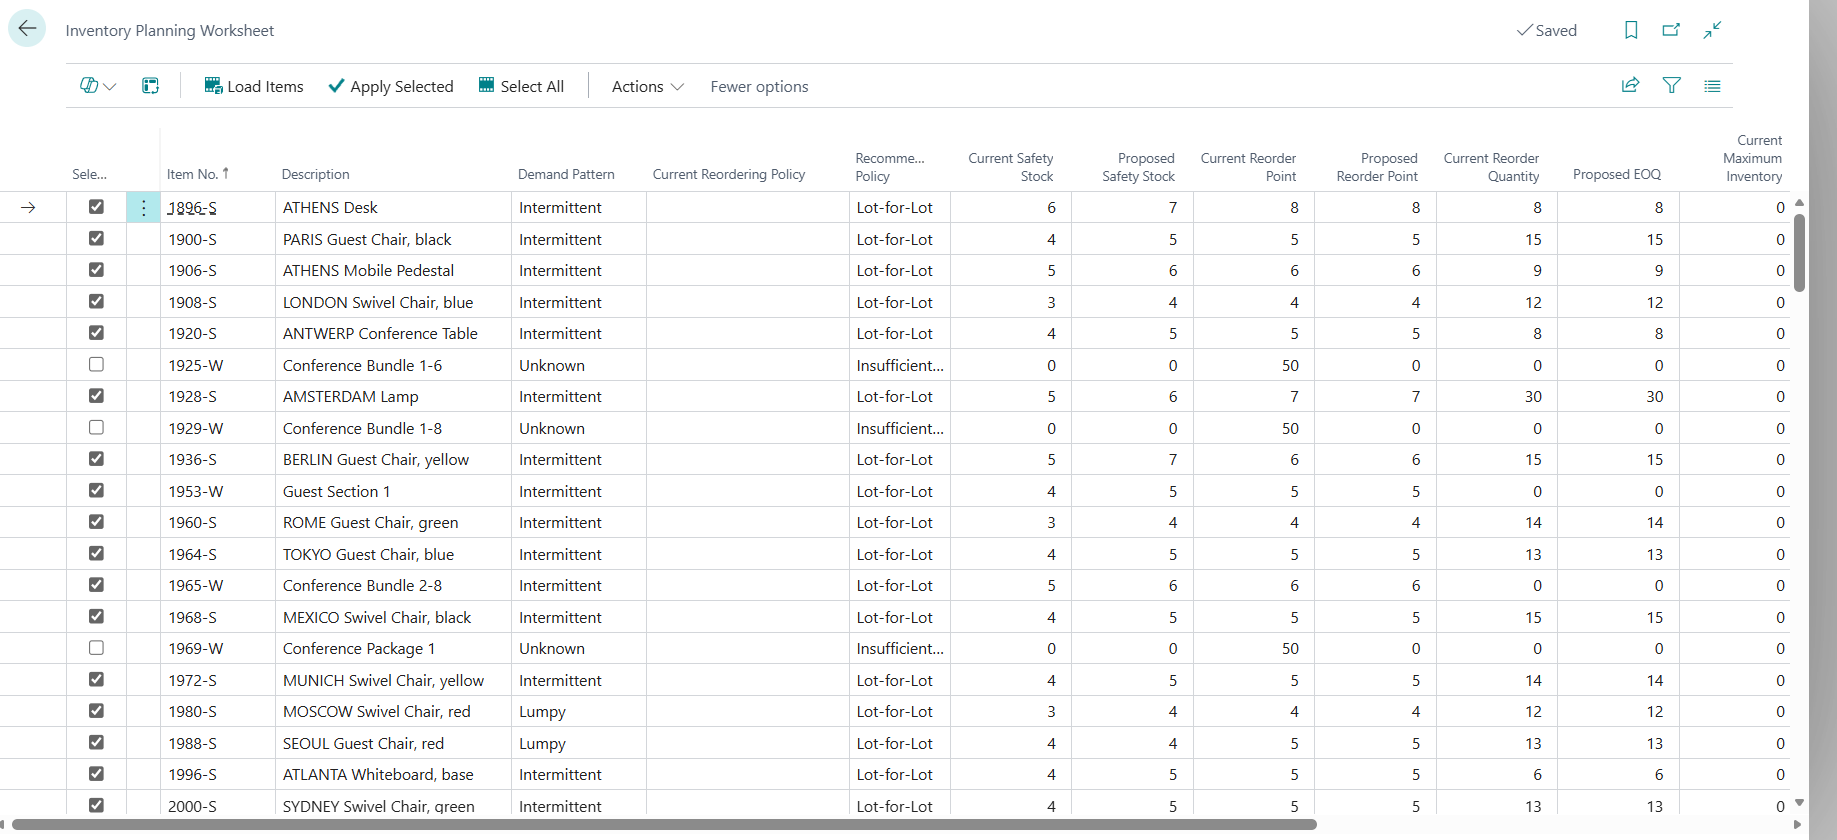
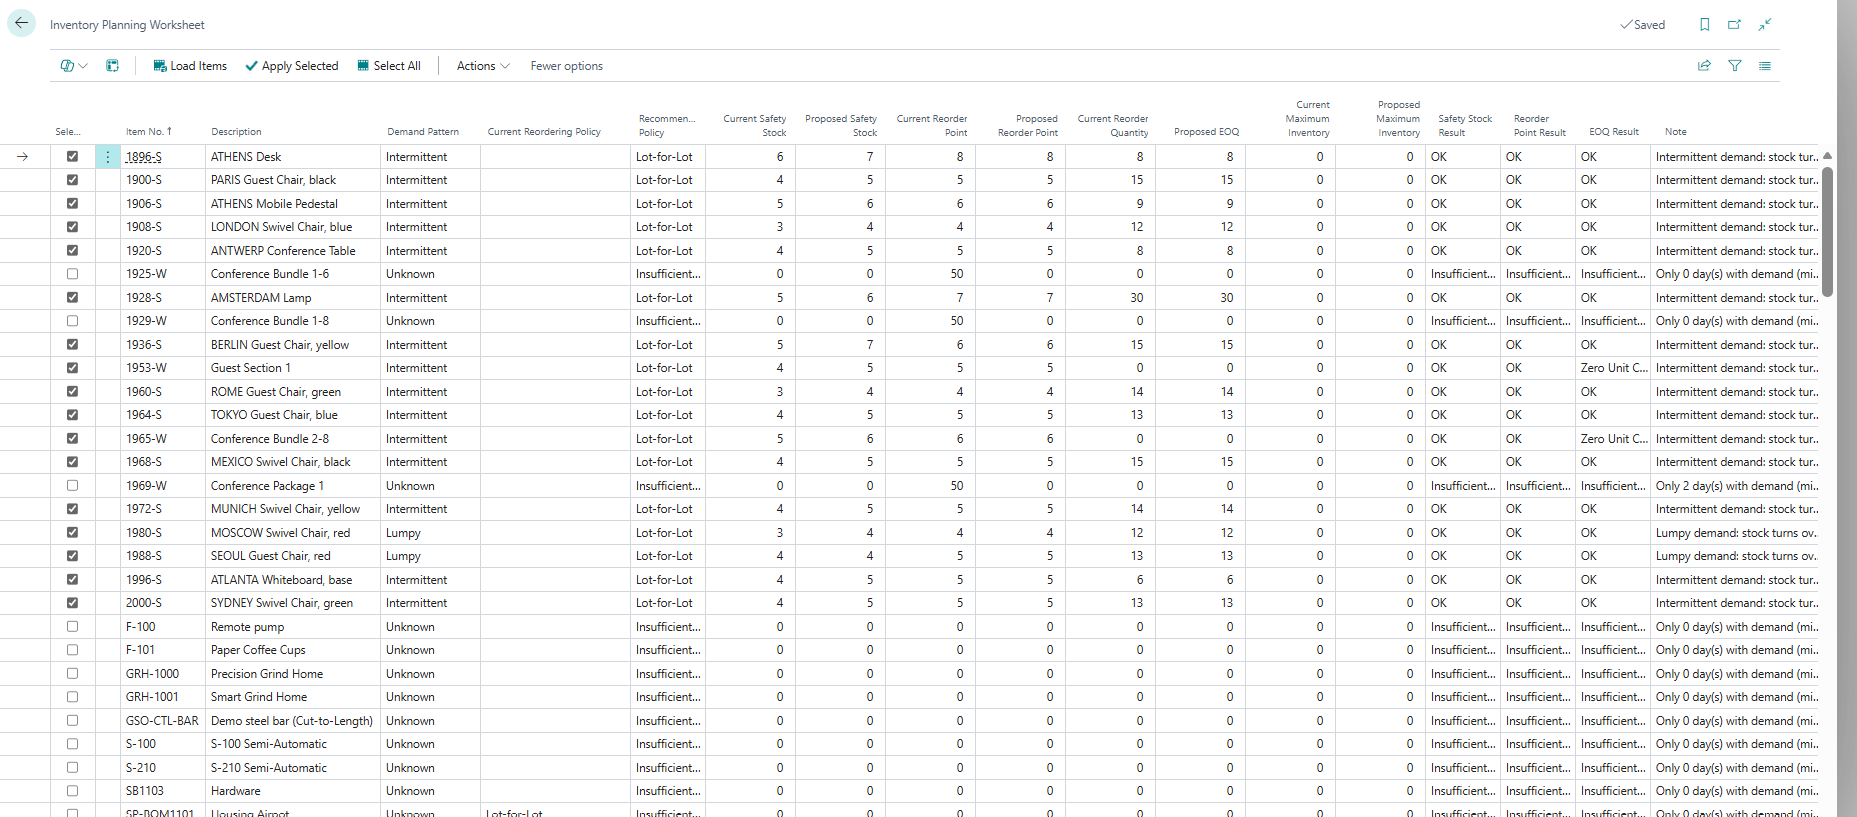
Size all five listing screenshots to 1280x720
Captures are wider or taller than 16:9, so each is scaled to fit and centred on
white rather than stretched. Two needed cropping first: the result message
included the browser tabs and the full URL, which would have published the Entra
tenant GUID permanently, and the setup page had the Role Center bleeding down
both edges plus the Windows taskbar.

Three are ready to upload. The README records why the other two need re-shooting:
the setup capture has the General group scrolled out of frame, and the
calculation log shows only items with no demand, so every statistic column reads
zero - which contradicts its own caption.

Changed region(s): [[0.0, 0.0, 0.9929, 1.0], [0.4034, 0.6732, 0.4344, 0.7038], [0.4034, 0.4284, 0.4344, 0.459]]

diff --git a/docs/screenshots/README.md b/docs/screenshots/README.md
@@ -17,13 +17,27 @@ most visitors never scroll past it.
 
 ## The set
 
-| # | File | Shows | Caption |
+| # | File | Status | Caption |
 |---|---|---|---|
-| 01 | `01-planning-worksheet.png` | Planning Worksheet loaded, current vs proposed side by side | Review current versus proposed values for a filtered set of items, then apply only the lines you select. |
-| 02 | *pending* | Inventory Planning Setup, all five groups | One setup page for all four calculators — service level, costs, thresholds and write targets. |
-| 03 | *pending* | A populated calculation log entry | Every calculation records the statistics, lead time, costs and previous value behind it. |
-| 04 | *pending* | Item Card with the Inventory Planning actions open | Calculate per item, and exclude planner-maintained items from bulk runs. |
-| 05 | *pending* | A result message carrying a trend or SKU warning | The app flags when a result deserves review — trends, Stockkeeping Units and lumpy demand. |
+| 01 | `01-planning-worksheet.png` | **ready** | Review current versus proposed values for a filtered set of items, then apply only the lines you select. |
+| 02 | `02-setup.png` | **re-shoot** — General group scrolled off the top | One setup page for all four calculators — service level, costs, thresholds and write targets. |
+| 03 | `03-calculation-log.png` | **re-shoot** — every row reads Insufficient with zero statistics | Every calculation records the statistics, lead time, costs and previous value behind it. |
+| 04 | `04-item-card.png` | **ready** | Every calculator, per item, from the Item Card. |
+| 05 | `05-result-message.png` | **ready** | The app flags when a result deserves review — here, demand too intermittent for the method to be reliable. |
+
+### 02 — what to change
+
+Maximise the page (⤢ top right) so it does not open over the Role Center, press
+Ctrl+- until all six group headers fit, and scroll to the very top. General is
+the group that matters most to an evaluator and it is currently above the fold.
+The crop already removes the Role Center bleed and the Windows taskbar.
+
+### 03 — what to change
+
+Filter the log to `Result Code = OK`, or to a single item that produced values
+such as 1896-S. The current capture shows WRB-1001…1007, which have no demand at
+all, so every statistic column is zero and the notes read "Found 0 observations".
+The caption promises the opposite of what the image shows.
 
 Captions are also in [`../appsource-listing.md`](../appsource-listing.md). Keep
 the two in step.
